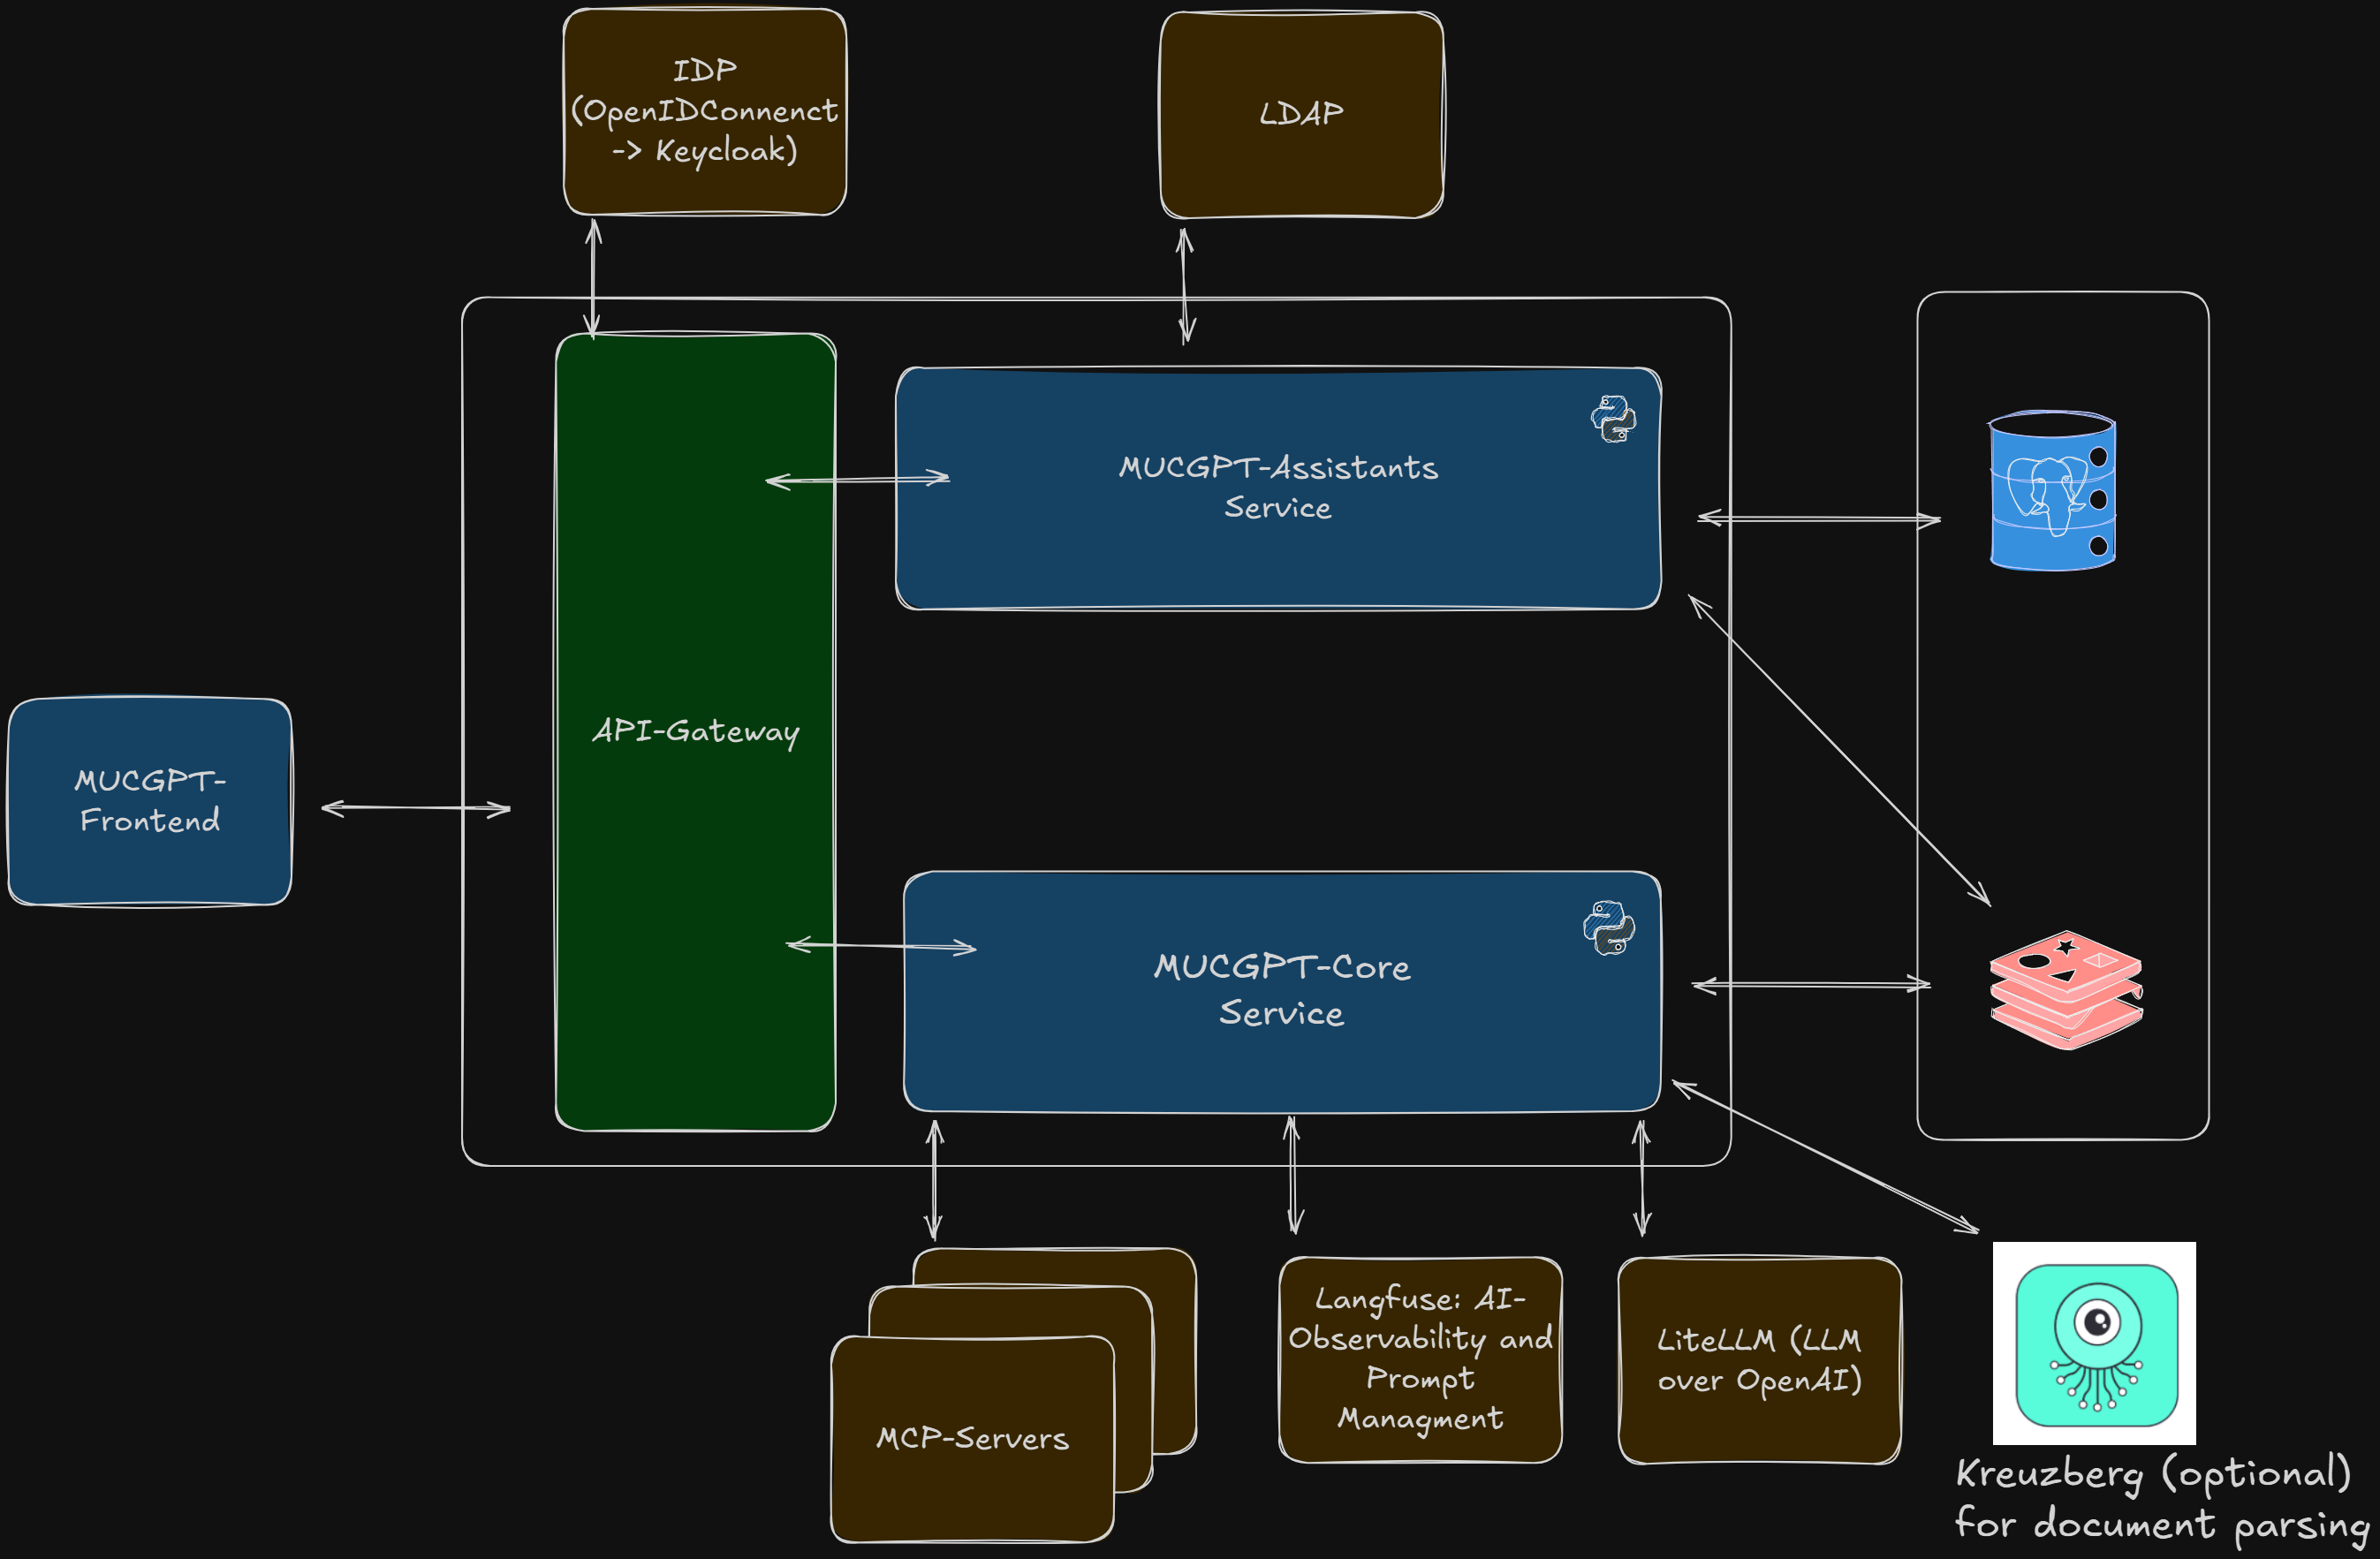
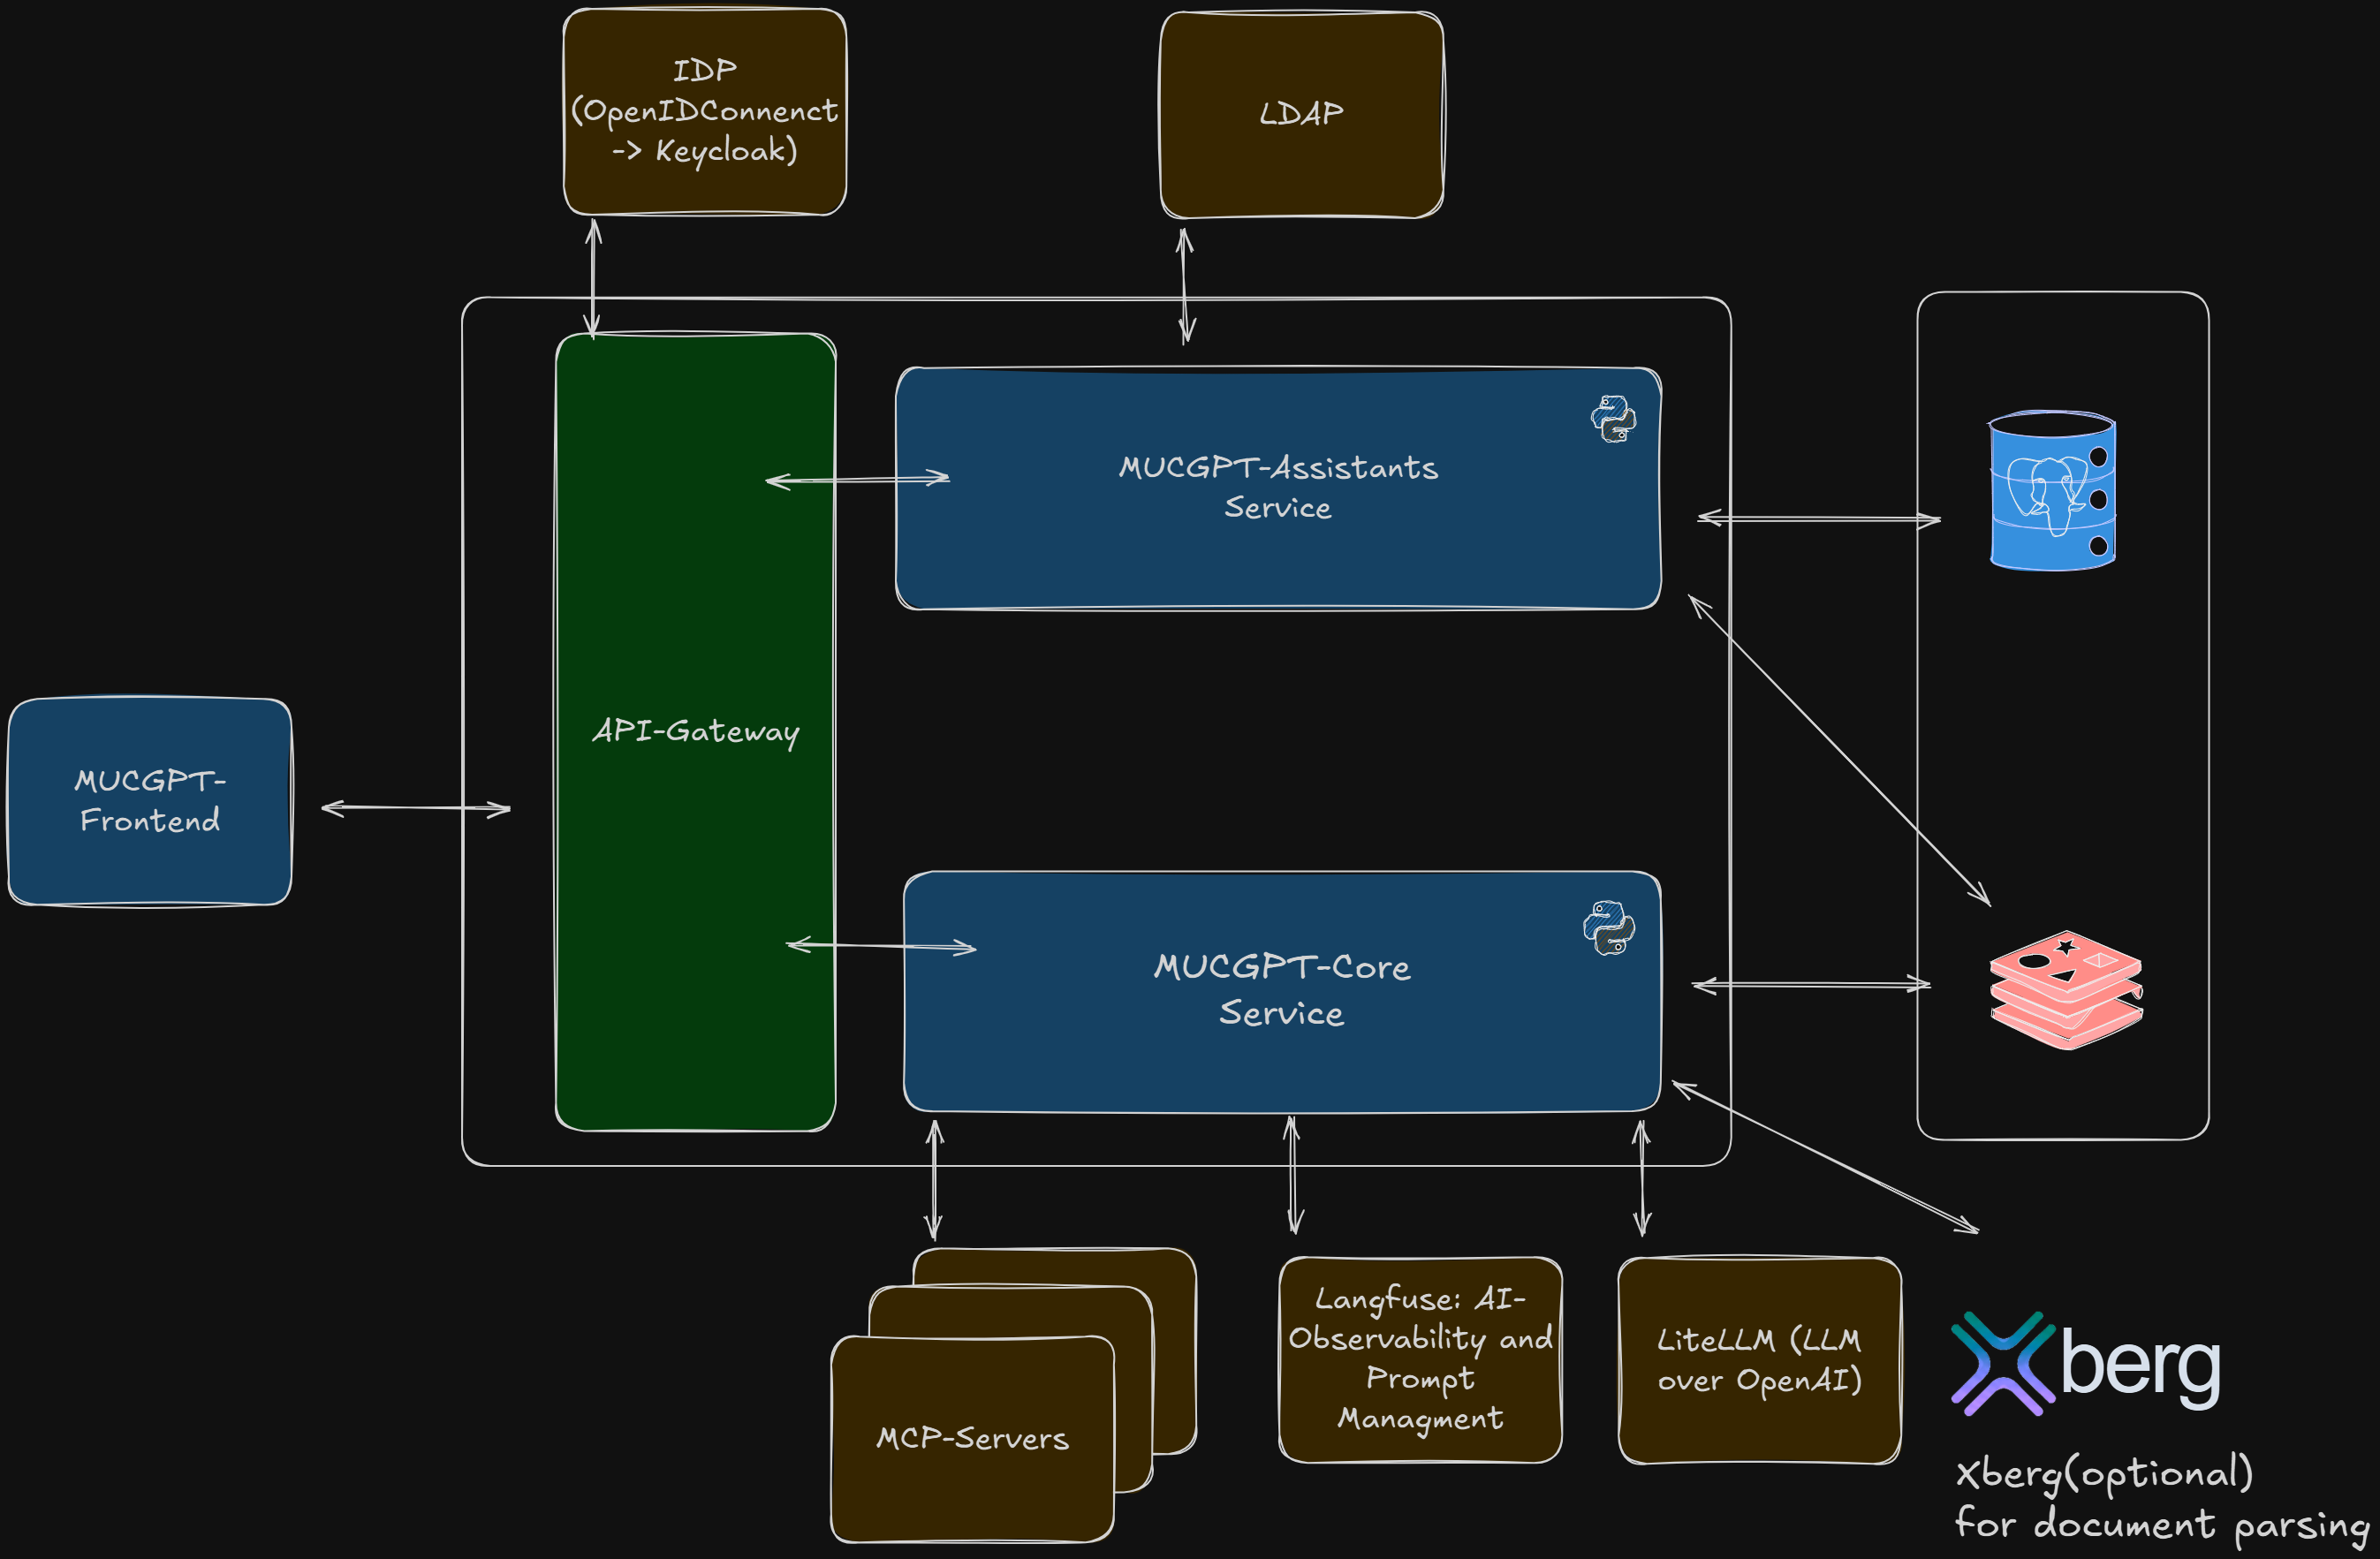
♻️ Kreuzberg -> XBerg

Changed region(s): [[0.8107, 0.779, 0.9978, 0.966]]

diff --git a/mucgpt-core-service/app/parsing/xberg.py b/mucgpt-core-service/app/parsing/xberg.py
@@ -1,0 +1,67 @@
+import httpx
+from fastapi import UploadFile
+
+from config.settings import get_settings
+from core.logtools import getLogger
+from parsing.base import ParserBackend
+
+logger = getLogger()
+
+
+class XbergBackend(ParserBackend):
+    """Parsing backend that delegates extraction to a remote Xberg service."""
+
+    def __init__(self):
+        settings = get_settings()
+        self._extract_url = f"{settings.XBERG_URL.rstrip('/')}/extract"
+        self._timeout = settings.XBERG_TIMEOUT
+        logger.info(f"XbergBackend configured with URL {settings.XBERG_URL}")
+
+    async def parse(self, file: UploadFile) -> str:
+        file_bytes = await file.read()
+
+        # Use a list-of-tuples for multipart fields so repeated "files" is supported.
+        files = [
+            (
+                "files",
+                (
+                    file.filename,
+                    file_bytes,
+                    file.content_type or "application/octet-stream",
+                ),
+            )
+        ]
+
+        async with httpx.AsyncClient() as client:
+            response = await client.post(
+                self._extract_url, files=files, timeout=self._timeout
+            )
+
+        if response.is_error:
+            logger.error(
+                "Xberg returned status %s for %s. Response body: %s",
+                response.status_code,
+                self._extract_url,
+                response.text,
+            )
+
+        response.raise_for_status()
+
+        payload = response.json()
+
+        # Xberg >= 1.0 returns {"results": [...], "errors": [...], "summary": {...}}.
+        if isinstance(payload, dict):
+            results = payload.get("results", [])
+            errors = payload.get("errors") or []
+            if errors:
+                logger.warning("Xberg reported extraction errors: %s", errors)
+        elif isinstance(payload, list):
+            # Backward compatibility with older list-shaped responses.
+            results = payload
+        else:
+            logger.warning(
+                "Unexpected Xberg response shape: %s", type(payload).__name__
+            )
+            results = []
+
+        return "\n\n".join(r["content"] for r in results if r.get("content"))

diff --git a/mucgpt-core-service/tests/unit/test_settings.py b/mucgpt-core-service/tests/unit/test_settings.py
@@ -544,7 +544,7 @@ ENV_NAME: "YAML_ENV"
 
 
 class TestParserSettings:
-    """Test cases for parsing / Kreuzberg configuration."""
+    """Test cases for parsing / XBerg configuration."""
 
     def test_parser_backend_default(self):
         """PARSER_BACKEND defaults to 'none'."""
@@ -552,27 +552,27 @@ class TestParserSettings:
             settings = Settings()
             assert settings.PARSER_BACKEND == ParserBackendType.NONE
 
-    def test_kreuzberg_url_and_timeout_defaults(self):
-        """KREUZBERG_URL defaults to empty string and KREUZBERG_TIMEOUT to 120.0."""
+    def test_xberg_url_and_timeout_defaults(self):
+        """XBERG_URL defaults to empty string and XBERG_TIMEOUT to 120.0."""
         with patch.dict(os.environ, {}, clear=True):
             settings = Settings()
-            assert settings.KREUZBERG_URL == ""
-            assert settings.KREUZBERG_TIMEOUT == 120.0
+            assert settings.XBERG_URL == ""
+            assert settings.XBERG_TIMEOUT == 120.0
 
-    def test_parser_backend_kreuzberg_via_env(self):
-        """PARSER_BACKEND can be set to 'kreuzberg' via environment variable."""
+    def test_parser_backend_xberg_via_env(self):
+        """PARSER_BACKEND can be set to 'xberg' via environment variable."""
         with patch.dict(
             os.environ,
             {
-                "MUCGPT_CORE_PARSER_BACKEND": "kreuzberg",
-                "MUCGPT_CORE_KREUZBERG_URL": "https://kreuzberg.example.com",
-                "MUCGPT_CORE_KREUZBERG_TIMEOUT": "60.5",
+                "MUCGPT_CORE_PARSER_BACKEND": "xberg",
+                "MUCGPT_CORE_XBERG_URL": "https://xberg.example.com",
+                "MUCGPT_CORE_XBERG_TIMEOUT": "60.5",
             },
         ):
             settings = Settings()
-            assert settings.PARSER_BACKEND == ParserBackendType.KREUZBERG
-            assert settings.KREUZBERG_URL == "https://kreuzberg.example.com"
-            assert settings.KREUZBERG_TIMEOUT == 60.5
+            assert settings.PARSER_BACKEND == ParserBackendType.XBERG
+            assert settings.XBERG_URL == "https://xberg.example.com"
+            assert settings.XBERG_TIMEOUT == 60.5
 
     def test_parser_backend_none_via_env(self):
         """PARSER_BACKEND can be explicitly set to 'none' via environment variable."""
@@ -599,9 +599,9 @@ class TestParserSettings:
     def test_parser_settings_from_yaml(self, monkeypatch):
         """Parsing settings can be loaded from a YAML configuration file."""
         yaml_content = """
-PARSER_BACKEND: "kreuzberg"
-KREUZBERG_URL: "https://yaml-kreuzberg.example.com"
-KREUZBERG_TIMEOUT: 30.0
+PARSER_BACKEND: "xberg"
+XBERG_URL: "https://yaml-xberg.example.com"
+XBERG_TIMEOUT: 30.0
 """
         with tempfile.TemporaryDirectory(ignore_cleanup_errors=True) as tmpdir:
             config_path = Path(tmpdir) / "config.yaml"
@@ -610,16 +610,16 @@ KREUZBERG_TIMEOUT: 30.0
             monkeypatch.chdir(tmpdir)
             with patch.dict(os.environ, {}, clear=True):
                 settings = Settings()
-                assert settings.PARSER_BACKEND == ParserBackendType.KREUZBERG
-                assert settings.KREUZBERG_URL == "https://yaml-kreuzberg.example.com"
-                assert settings.KREUZBERG_TIMEOUT == 30.0
+                assert settings.PARSER_BACKEND == ParserBackendType.XBERG
+                assert settings.XBERG_URL == "https://yaml-xberg.example.com"
+                assert settings.XBERG_TIMEOUT == 30.0
 
     def test_env_overrides_yaml_for_parser(self, monkeypatch):
         """Environment variables override YAML for parsing settings."""
         yaml_content = """
-PARSER_BACKEND: "kreuzberg"
-KREUZBERG_URL: "https://yaml-kreuzberg.example.com"
-KREUZBERG_TIMEOUT: 30.0
+PARSER_BACKEND: "xberg"
+XBERG_URL: "https://yaml-xberg.example.com"
+XBERG_TIMEOUT: 30.0
 """
         with tempfile.TemporaryDirectory(ignore_cleanup_errors=True) as tmpdir:
             config_path = Path(tmpdir) / "config.yaml"
@@ -630,14 +630,14 @@ KREUZBERG_TIMEOUT: 30.0
                 os.environ,
                 {
                     "MUCGPT_CORE_PARSER_BACKEND": "none",
-                    "MUCGPT_CORE_KREUZBERG_TIMEOUT": "999.9",
+                    "MUCGPT_CORE_XBERG_TIMEOUT": "999.9",
                 },
             ):
                 settings = Settings()
                 assert settings.PARSER_BACKEND == ParserBackendType.NONE
-                assert settings.KREUZBERG_TIMEOUT == 999.9
+                assert settings.XBERG_TIMEOUT == 999.9
                 assert (
-                    settings.KREUZBERG_URL == "https://yaml-kreuzberg.example.com"
+                    settings.XBERG_URL == "https://yaml-xberg.example.com"
                 )  # from YAML
 
     def teardown_method(self):

diff --git a/mucgpt-core-service/app/api/routers/parsing_router.py b/mucgpt-core-service/app/api/routers/parsing_router.py
@@ -49,7 +49,23 @@ async def parse_file(file: UploadFile, user_info=Depends(authenticate_user)) -> 
             status_code=504,
             detail=f"Parser service timed out while processing '{file.filename}'.",
         )
-    except (httpx.ConnectError, httpx.NetworkError, httpx.HTTPStatusError) as exc:
+    except httpx.HTTPStatusError as exc:
+        status_code = (
+            exc.response.status_code if exc.response is not None else "unknown"
+        )
+        response_text = exc.response.text if exc.response is not None else ""
+        logger.error(
+            "Parser backend HTTP error while parsing file '%s': status=%s body=%s",
+            file.filename,
+            status_code,
+            response_text,
+            exc_info=True,
+        )
+        raise HTTPException(
+            status_code=502,
+            detail=f"Parser service returned an error while processing '{file.filename}'.",
+        )
+    except (httpx.ConnectError, httpx.NetworkError) as exc:
         logger.error(
             f"Parser backend error while parsing file '{file.filename}': {exc}",
             exc_info=True,

diff --git a/mucgpt-core-service/tests/integration/test_parsing_router.py b/mucgpt-core-service/tests/integration/test_parsing_router.py
@@ -45,7 +45,7 @@ class TestParsingRouter:
             patch("api.routers.parsing_router.settings") as mock_settings,
             patch("api.routers.parsing_router._parser", mock_parser),
         ):
-            mock_settings.PARSER_BACKEND = ParserBackendType.KREUZBERG
+            mock_settings.PARSER_BACKEND = ParserBackendType.XBERG
             response = test_client.post(
                 "/v1/parse",
                 files={
@@ -74,7 +74,7 @@ class TestParsingRouter:
             patch("api.routers.parsing_router.settings") as mock_settings,
             patch("api.routers.parsing_router._parser", mock_parser),
         ):
-            mock_settings.PARSER_BACKEND = ParserBackendType.KREUZBERG
+            mock_settings.PARSER_BACKEND = ParserBackendType.XBERG
             test_client.post(
                 "/v1/parse",
                 files={
@@ -92,7 +92,7 @@ class TestParsingRouter:
     def test_parse_requires_authentication(self, unauthenticated_client: TestClient):
         """With an invalid token, the endpoint should reject the request with 401."""
         with patch("api.routers.parsing_router.settings") as mock_settings:
-            mock_settings.PARSER_BACKEND = ParserBackendType.KREUZBERG
+            mock_settings.PARSER_BACKEND = ParserBackendType.XBERG
             response = unauthenticated_client.post(
                 "/v1/parse",
                 files={"file": ("test.txt", b"hello", "text/plain")},
@@ -111,7 +111,7 @@ class TestParsingRouter:
             patch("api.routers.parsing_router.settings") as mock_settings,
             patch("api.routers.parsing_router._parser", mock_parser),
         ):
-            mock_settings.PARSER_BACKEND = ParserBackendType.KREUZBERG
+            mock_settings.PARSER_BACKEND = ParserBackendType.XBERG
             # raise_server_exceptions=False makes the test client return a 500
             # response instead of re-raising the exception in the test process.
             with TestClient(api_app, raise_server_exceptions=False) as error_client:
@@ -132,7 +132,7 @@ class TestParsingRouter:
             patch("api.routers.parsing_router.settings") as mock_settings,
             patch("api.routers.parsing_router._parser", mock_parser),
         ):
-            mock_settings.PARSER_BACKEND = ParserBackendType.KREUZBERG
+            mock_settings.PARSER_BACKEND = ParserBackendType.XBERG
             response = test_client.post(
                 "/v1/parse",
                 files={"file": ("slow.pdf", b"pdf bytes", "application/pdf")},
@@ -153,7 +153,7 @@ class TestParsingRouter:
             patch("api.routers.parsing_router.settings") as mock_settings,
             patch("api.routers.parsing_router._parser", mock_parser),
         ):
-            mock_settings.PARSER_BACKEND = ParserBackendType.KREUZBERG
+            mock_settings.PARSER_BACKEND = ParserBackendType.XBERG
             response = test_client.post(
                 "/v1/parse",
                 files={"file": ("unreachable.pdf", b"pdf bytes", "application/pdf")},
@@ -182,7 +182,7 @@ class TestParsingRouter:
             patch("api.routers.parsing_router.settings") as mock_settings,
             patch("api.routers.parsing_router._parser", mock_parser),
         ):
-            mock_settings.PARSER_BACKEND = ParserBackendType.KREUZBERG
+            mock_settings.PARSER_BACKEND = ParserBackendType.XBERG
             response = test_client.post(
                 "/v1/parse",
                 files={"file": ("bad.pdf", b"pdf bytes", "application/pdf")},

diff --git a/mucgpt-core-service/app/config/settings.py b/mucgpt-core-service/app/config/settings.py
@@ -34,7 +34,7 @@ class MCPTransport(StrEnum):
 
 class ParserBackendType(StrEnum):
     NONE = "none"
-    KREUZBERG = "kreuzberg"
+    XBERG = "xberg"
 
 
 _logger = logging.getLogger(__name__)
@@ -423,8 +423,8 @@ class Settings(BaseSettings):
 
     # Parsing
     PARSER_BACKEND: ParserBackendType = ParserBackendType.NONE
-    KREUZBERG_URL: str = ""
-    KREUZBERG_TIMEOUT: float = 120.0
+    XBERG_URL: str = ""
+    XBERG_TIMEOUT: float = 120.0
 
     # Frontend feature flags
     TRANSCRIPTION_ENABLED: bool = False
@@ -434,9 +434,7 @@ class Settings(BaseSettings):
     LANGFUSE: LangfuseConfig = Field(default_factory=LangfuseConfig)
     MCP: MCPConfig = Field(default_factory=MCPConfig)
     REDIS: RedisConfig = Field(default_factory=RedisConfig)
-    INTERNET_SEARCH: InternetSearchConfig = Field(
-        default_factory=InternetSearchConfig
-    )
+    INTERNET_SEARCH: InternetSearchConfig = Field(default_factory=InternetSearchConfig)
 
     # Customize settings sources to prioritize YAML config
     @classmethod

diff --git a/mucgpt-core-service/app/parsing/factory.py b/mucgpt-core-service/app/parsing/factory.py
@@ -1,6 +1,7 @@
 from config.settings import ParserBackendType, get_settings
 from core.logtools import getLogger
 from parsing.base import ParserBackend
+from parsing.xberg import XbergBackend
 
 logger = getLogger()
 
@@ -18,10 +19,8 @@ def get_parser() -> ParserBackend | None:
         logger.info("Document processing disabled (PARSER_BACKEND=none)")
         return None
 
-    if backend == ParserBackendType.KREUZBERG:
-        from parsing.kreuzberg import KreuzbergBackend
-
-        logger.info("Using KreuzbergBackend for parsing")
-        return KreuzbergBackend()
+    if backend == ParserBackendType.XBERG:
+        logger.info("Using XbergBackend for parsing")
+        return XbergBackend()
 
     raise ValueError(f"Unknown parser backend: '{backend}'")

diff --git a/mucgpt-core-service/tests/integration/test_system_router.py b/mucgpt-core-service/tests/integration/test_system_router.py
@@ -35,10 +35,10 @@ def test_health_check(test_client):
 
 @pytest.mark.integration
 def test_document_processing_enabled_when_parser_backend_set(test_client):
-    """document_processing_enabled is True when PARSER_BACKEND is set to kreuzberg."""
+    """document_processing_enabled is True when PARSER_BACKEND is set to xberg."""
     mock_settings = Settings(
-        PARSER_BACKEND=ParserBackendType.KREUZBERG,
-        KREUZBERG_URL="https://kreuzberg.example.com",
+        PARSER_BACKEND=ParserBackendType.XBERG,
+        XBERG_URL="https://xberg.example.com",
     )
     with patch("api.routers.system_router.settings", mock_settings):
         response = test_client.get("/config", headers=headers)

diff --git a/mucgpt-core-service/app/api/api_models.py b/mucgpt-core-service/app/api/api_models.py
@@ -407,7 +407,7 @@ class ConfigResponse(BaseModel):
     assistant_version: str
     document_processing_enabled: bool = Field(
         False,
-        description="Whether document upload and parsing is enabled. True when a parser backend (e.g. Kreuzberg) is configured.",
+        description="Whether document upload and parsing is enabled. True when a parser backend (e.g. Xberg) is configured.",
     )
     transcription_enabled: bool = Field(
         False,

diff --git a/docs/GETTING_STARTED.md b/docs/GETTING_STARTED.md
@@ -56,19 +56,19 @@ See `mucgpt-core-service/config.yaml.example` and `mucgpt-assistant-service/conf
 
 The core service supports extracting text and structure from uploaded documents using an optional parser. Configure the document parser in `core.config.yaml`. By default, document parsing is disabled (`PARSER_BACKEND: "none"`).
 
-Currently, Kreuzberg is the only supported parser backend. To enable it, set the parser backend to `"kreuzberg"` and configure the URL and timeout:
+Currently, Xberg is the only supported parser backend. To enable it, set the parser backend to `"xberg"` and configure the URL and timeout:
 
 ```yaml
-PARSER_BACKEND: "kreuzberg" # Default is "none"
-KREUZBERG_URL: "http://kreuzberg-full:8000"
-KREUZBERG_TIMEOUT: 120.0
+PARSER_BACKEND: "xberg" # Default is "none"
+XBERG_URL: "http://xberg-full:8000"
+XBERG_TIMEOUT: 120.0
 ```
 
 Where:
 
-- `PARSER_BACKEND`: Defines the parser used (`none` to disable, or `kreuzberg`).
-- `KREUZBERG_URL`: Points to your Kreuzberg parsing service.
-- `KREUZBERG_TIMEOUT`: Execution timeout in seconds.
+- `PARSER_BACKEND`: Defines the parser used (`none` to disable, or `xberg`).
+- `XBERG_URL`: Points to your Xberg parsing service.
+- `XBERG_TIMEOUT`: Execution timeout in seconds.
 
 ### Models Configuration (Environment Variable)
 

diff --git a/README.md b/README.md
@@ -205,7 +205,7 @@ Each service provides specialized functionality:
 
 - **Migration Service**: Handles database migrations for the Assistant Service, ensuring schema updates are applied consistently.
 
-- **Document Parsing**: Extracts text and structure from uploaded documents for the Core Service. Currently, only Kreuzberg is supported as the parsing backend.
+- **Document Parsing**: Extracts text and structure from uploaded documents for the Core Service. Currently, only Xberg is supported as the parsing backend.
 
 The API Gateway is developed in Java based on the [Spring Cloud Gateway](https://spring.io/projects/spring-cloud-gateway), providing robust routing, security, and scalability for all services. [IT@M](https://github.com/it-at-m) distributes the gateway as a container image: `ghcr.io/it-at-m/refarch/refarch-gateway`. For detailed documentation, see the [gateway documentation](https://refarch.oss.muenchen.de/gateway.html).
 
@@ -235,8 +235,6 @@ More about this in the [CODE_OF_CONDUCT](/CODE_OF_CONDUCT.md) file.
 ## 📝 License
 
 Distributed under the MIT License. See [LICENSE](LICENSE) file for more information.
-
-Please note that MUCGPT uses **Kreuzberg** as an optional dependency for document parsing. Kreuzberg is distributed under the **Elastic License v2.0 (ELv2)**, which deviates from the MIT license used for the rest of this project.
 
 ## 📬 Contact
 

diff --git a/stack/README.md b/stack/README.md
@@ -70,7 +70,7 @@ This directory contains the Docker Compose configuration for running the complet
 │                    │  └──────┬─────┘  │   │            │         │
 │                    │         │        │   │ ┌────────┐ │         │
 │                    │  ┌──────▼─────┐  │   │ │pgAdmin │ │         │
-│                    │  │ kreuzberg- │  │   │ │:5050   │ │         │
+│                    │  │ xberg -    │  │   │ |:5050   │ │         │
 │                    │  │ full :8000 │  │   │ └────────┘ │         │
 │                    │  └────────────┘  │   │            │         │
 │                    │                  │   │ ┌────────┐ │         │
@@ -100,7 +100,7 @@ This directory contains the Docker Compose configuration for running the complet
 | **keycloak** | 8100 | Identity and access management |
 | **valkey** | 6379 | In-memory data store (Redis-compatible) |
 | **refarch-gateway** | 8083 | API Gateway with OAuth2/OIDC |
-| **kreuzberg-full** | 8086 | Document extraction service |
+| **xberg-full** | 8086 | Document extraction service |
 
 ### Application Services
 